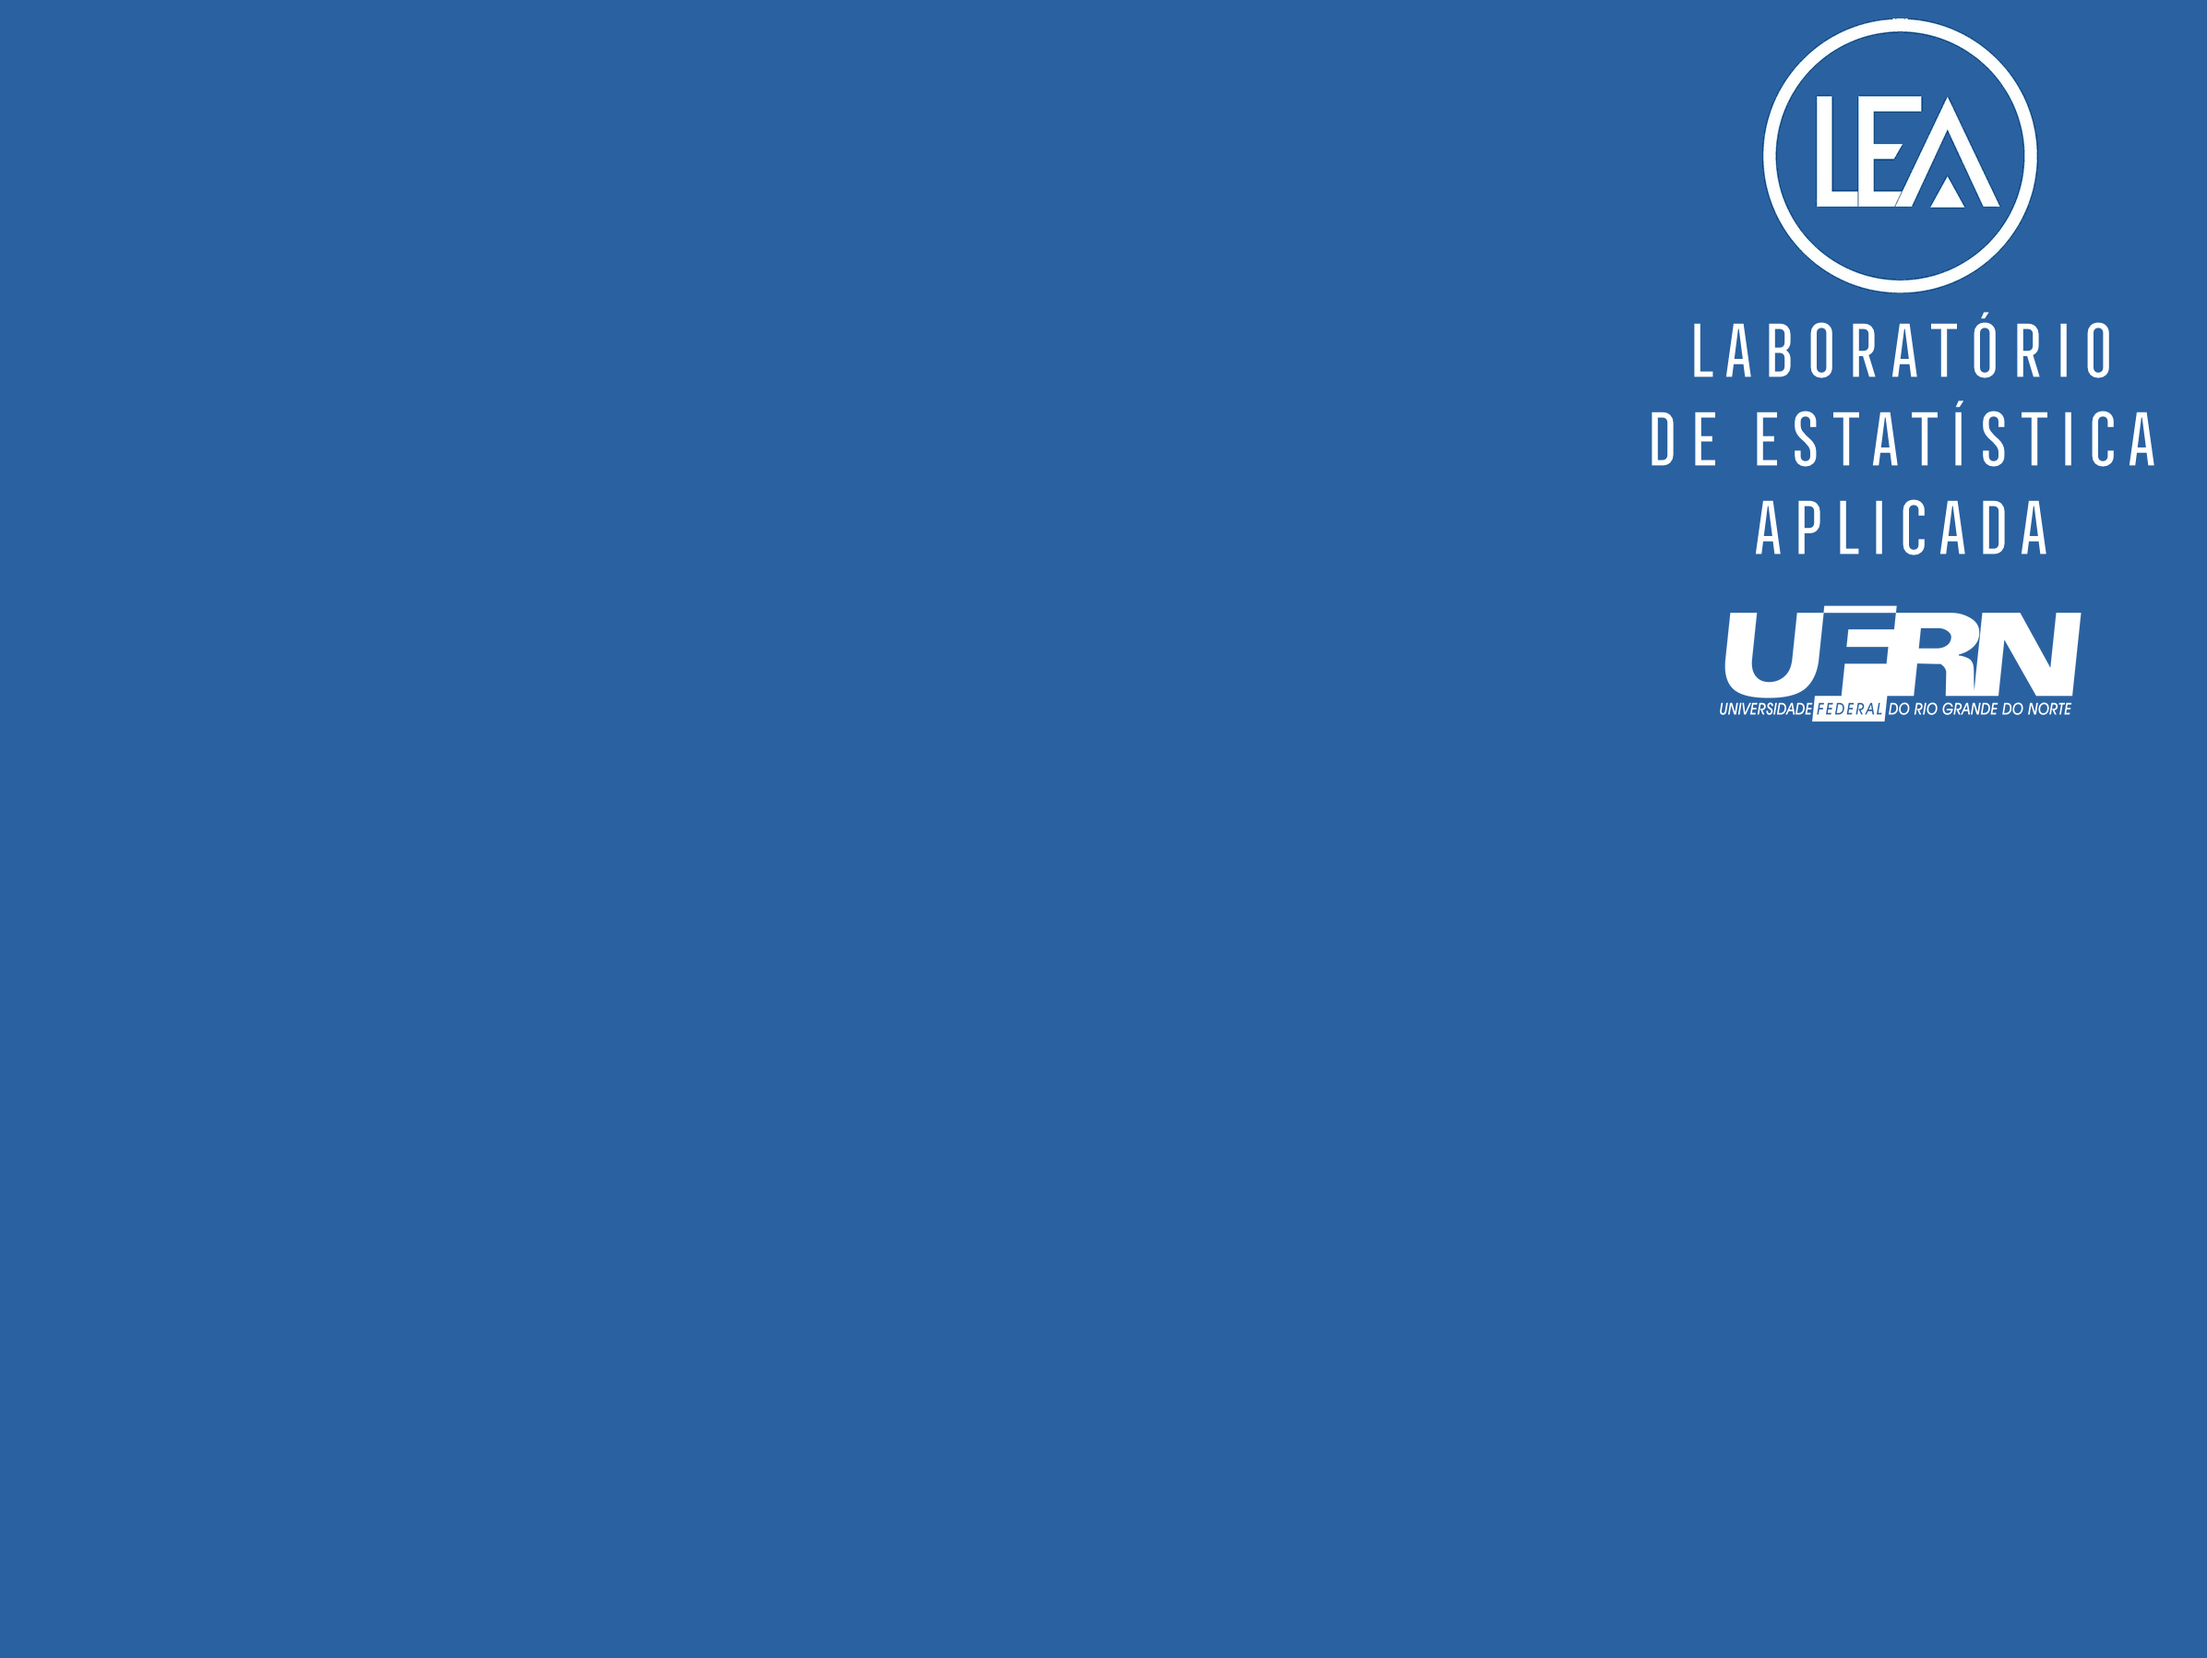
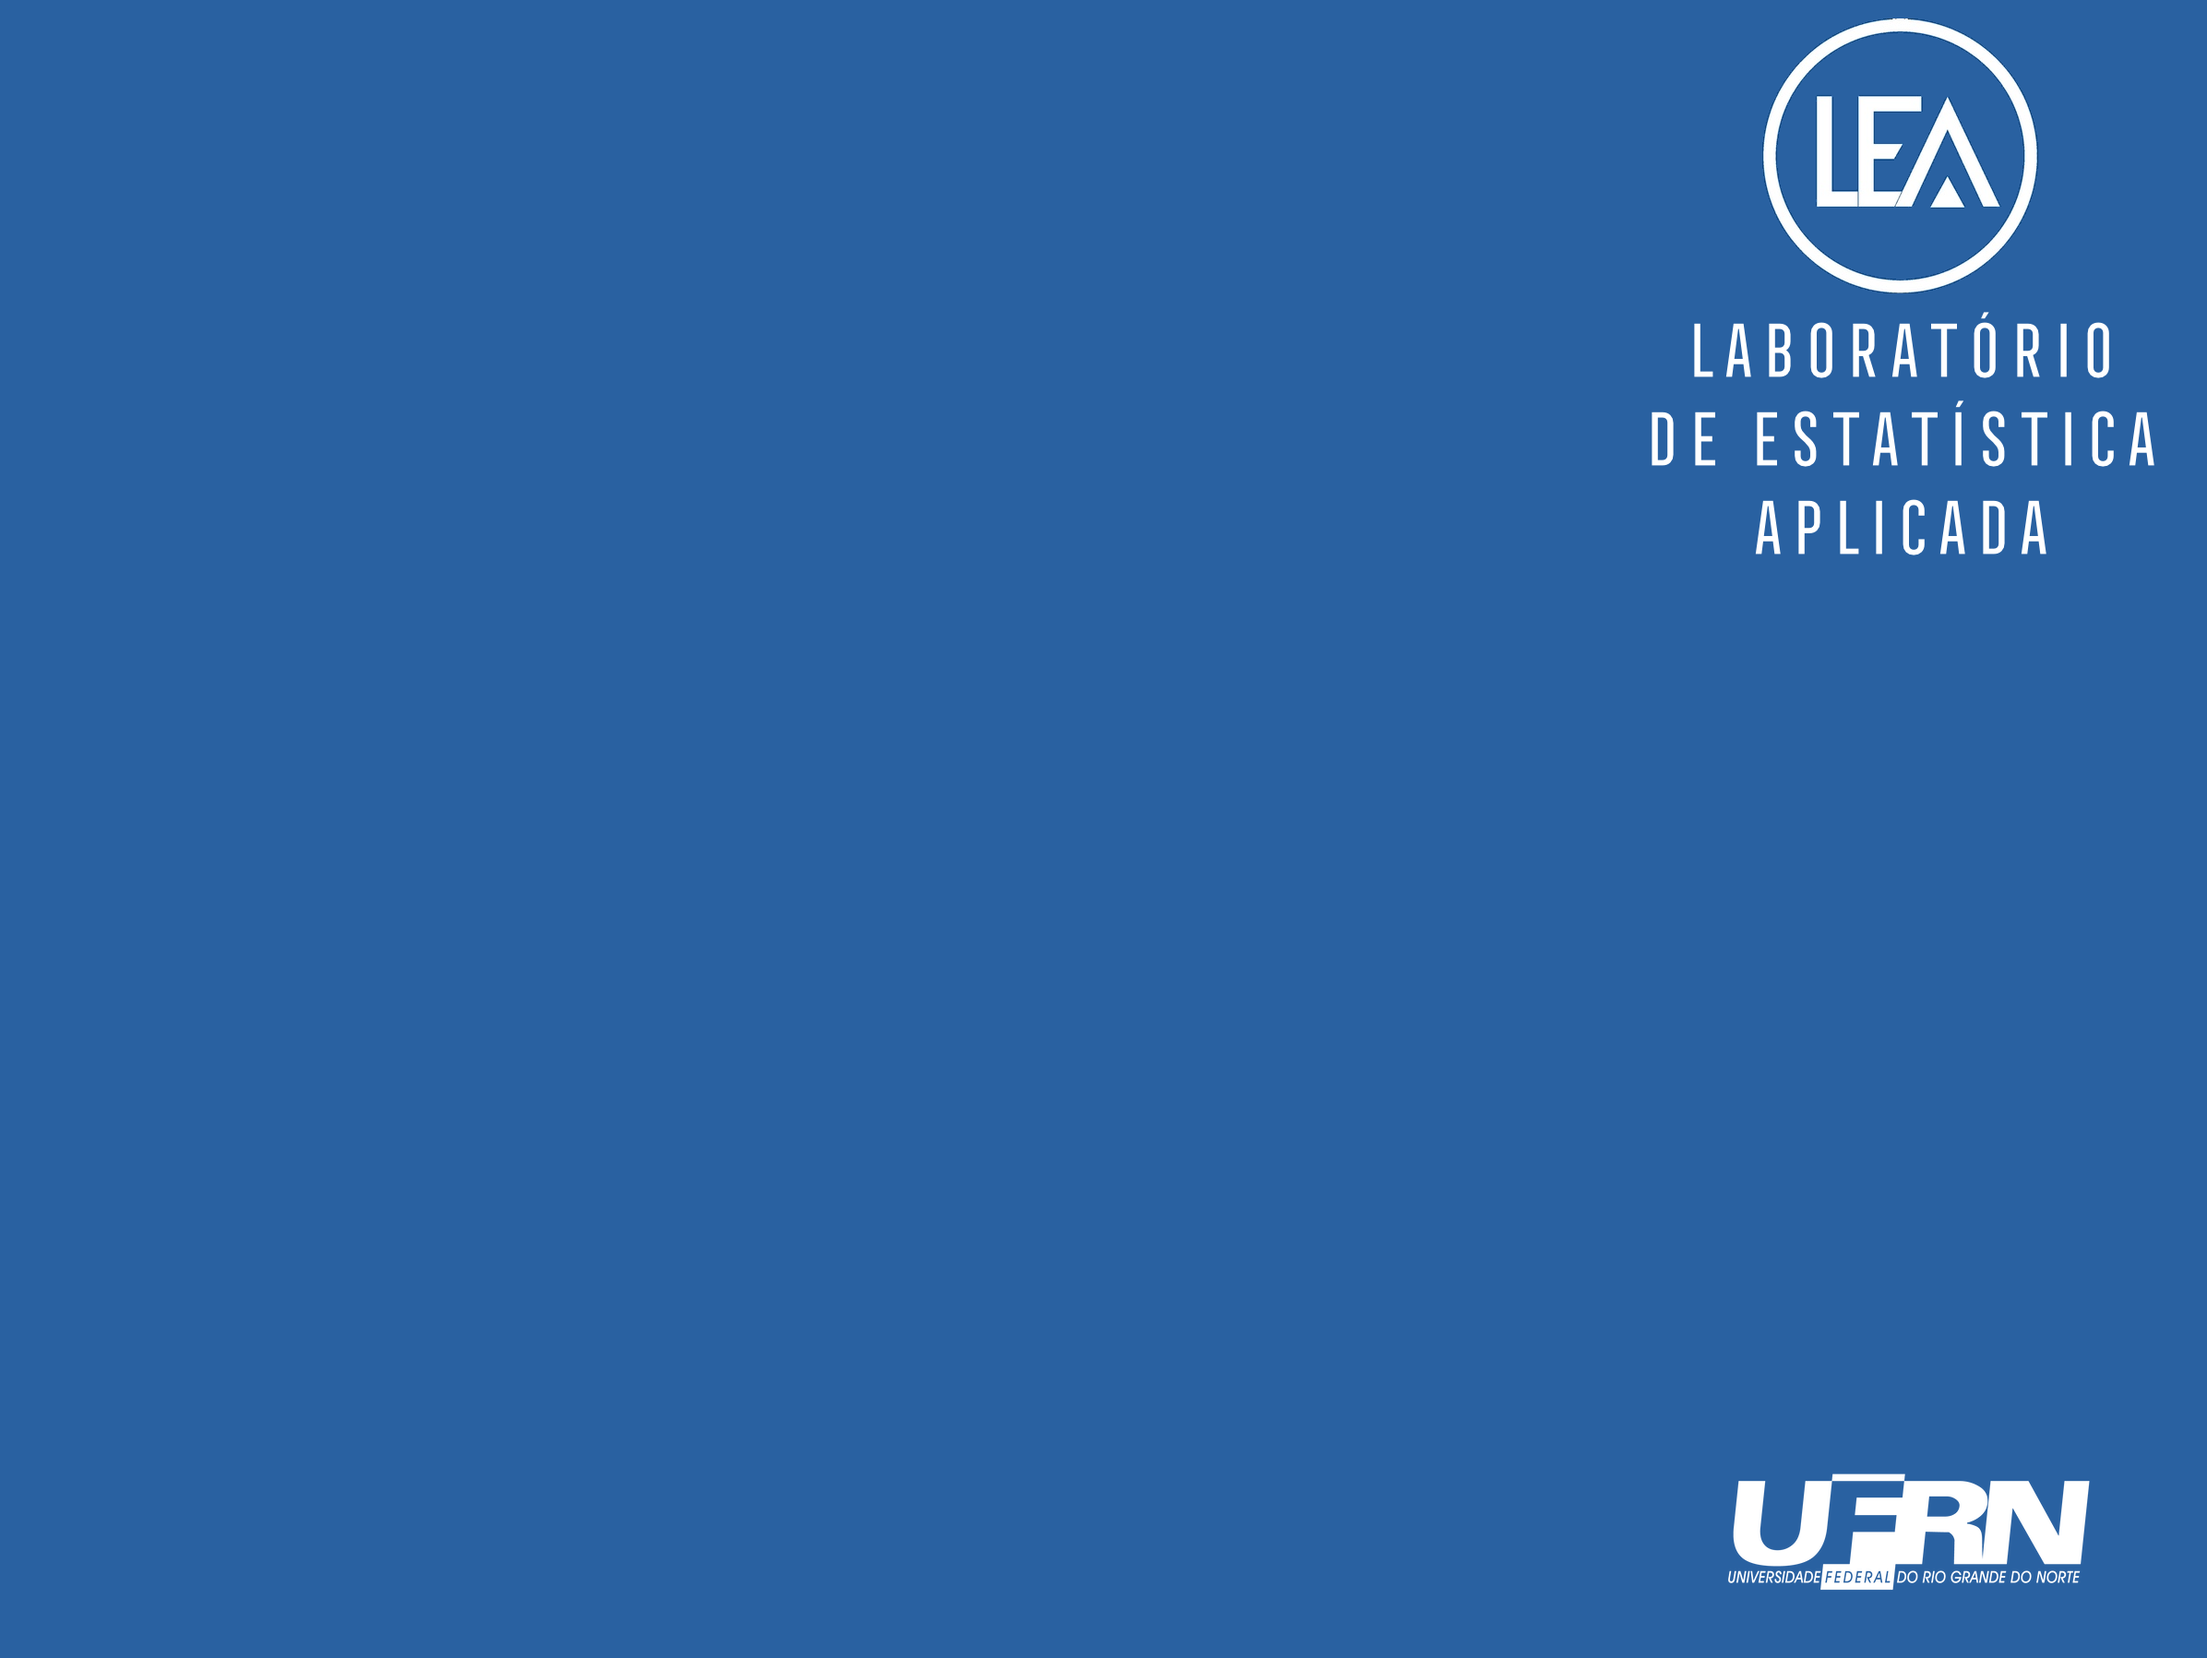
Segunda versão dos slides
* Tradução automática dos environments do LaTeX: Tabela em vez de Table, Figura em vez de Figure etc;

* As referências estão funcionando e sendo divididas automaticamente por slides, quando for necessário;

* Separei os logos do LEA e da UFRN na página inicial para o layout ficar mais equilibrado.

Changed region(s): [[0.7734, 0.8726, 0.959, 0.9661], [0.7734, 0.3428, 0.959, 0.4363]]

diff --git a/inst/rmarkdown/templates/apresentacao/resources/template.tex b/inst/rmarkdown/templates/apresentacao/resources/template.tex
@@ -339,6 +339,8 @@ $endif$
   $endif$
 }
 
+\usepackage[portuguese]{babel}
+
 \begin{document}
 
 % Hide progress bar and footline on titlepage
@@ -373,6 +375,7 @@ $if(natbib)$
     $endif$
     \begin{frame}[allowframebreaks]{$biblio-title$}
     \bibliographytrue
+    \nocite{*}
     \bibliography{$for(bibliography)$$bibliography$$sep$,$endfor$}
     \end{frame}
   $endif$
@@ -381,6 +384,7 @@ $endif$
 $if(biblatex)$
   \begin{frame}[allowframebreaks]{$biblio-title$}
   \bibliographytrue
+  \nocite{*}
   \printbibliography[heading=none]
   \end{frame}
 $endif$
